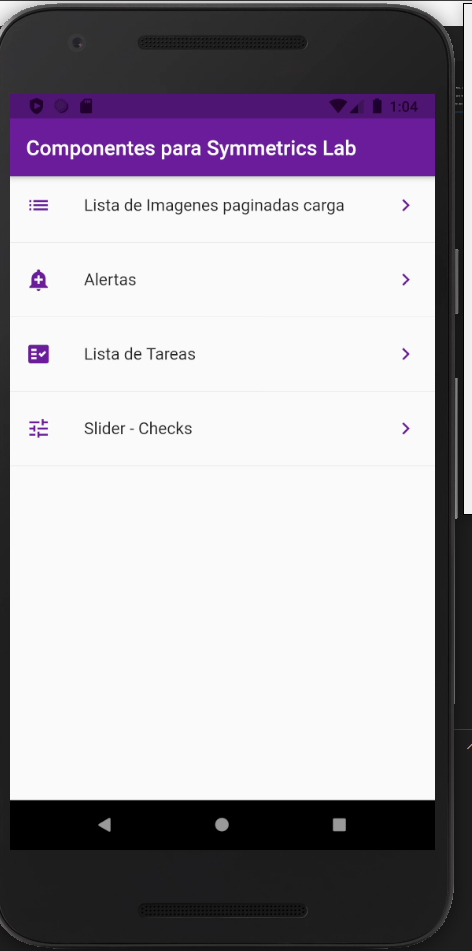
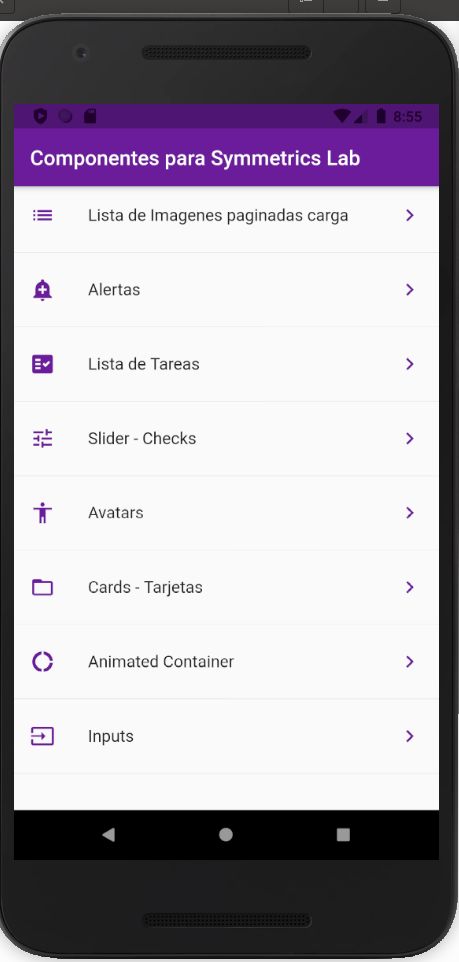
feat: readme

diff --git a/README.md b/README.md
@@ -25,3 +25,7 @@ You can contact me marquezdigna83@gmail.com
 <img src="assets/images/todolist2.png" alt="Logo" >
 <img src="assets/images/todolist3.png" alt="Logo" >
 <img src="assets/images/slider.png" alt="Logo" >
+<img src="assets/images/avatar.png" alt="Logo" >
+<img src="assets/images/cards.png" alt="Logo" >
+<img src="assets/images/inputs.png" alt="Logo" >
+<img src="assets/images/animation.png" alt="Logo" >
